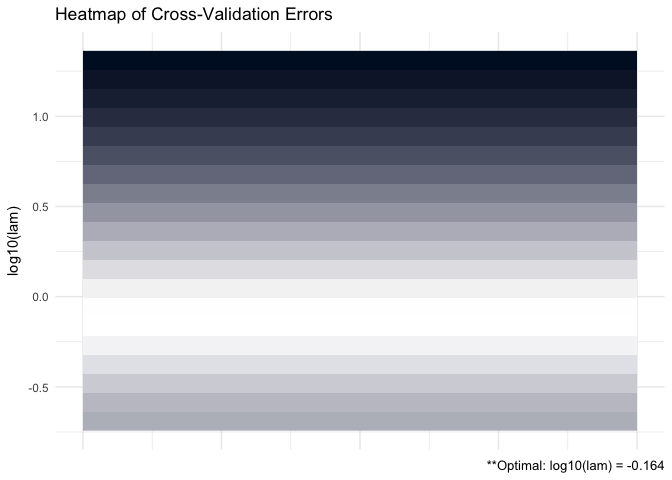
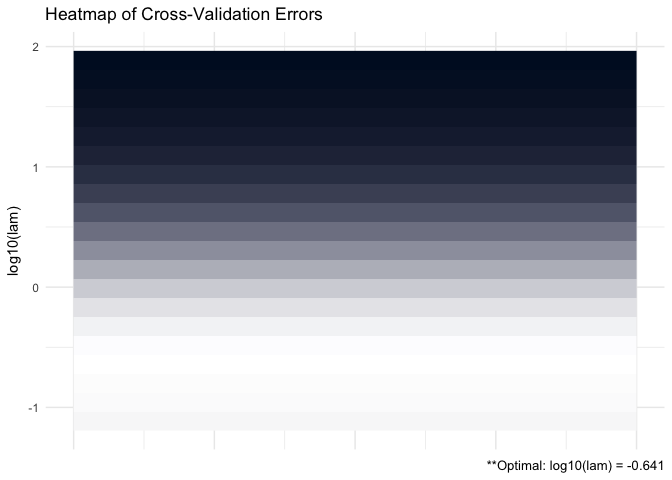
bug fixes, added tutorial

diff --git a/README.md b/README.md
@@ -7,7 +7,7 @@ Status](https://travis-ci.org/MGallow/shrink.svg?branch=master)](https://travis-
 
 ## Overview
 
-`shrink` is an implementation of the methods described in “Shrinking
+`SCPME` is an implementation of the methods described in “Shrinking
 Characteristics of Precision Matrix Estimators”
 [pdf](https://doi.org/10.1093/biomet/asy023). It estimates a penalized
 precision matrix via a modified alternating direction method of
@@ -52,136 +52,139 @@ welcome\!
 library(SCPME)
 set.seed(123)
 
-# let's generate some data!
+# let us generate data for a quick simulation
+# we can use the built-in `data_gen` function
 
-# specify marginal covariance of X
-# note that the inverse is tri-diagonal (sparse)
-Sxx = matrix(0.7, nrow = 5, ncol = 5)
-for (i in 1:5){
-  for (j in 1:5){
-    Sxx[i, j] = Sxx[i, j]^abs(i - j)
-  }
-}
+# generate 100 samples
+data = data_gen(p = 5, n = 100, r = 1)
 
-# now randomly generate some 100 observations of X
-Z = matrix(rnorm(100*5), nrow = 100, ncol = 5)
-out = eigen(Sxx, symmetric = TRUE)
-Sxx.sqrt = out$vectors %*% diag(out$values^0.5) %*% t(out$vectors)
-X = Z %*% Sxx.sqrt
+# default is generated from sparse regression coefficients
+data$betas
+```
 
-# randomly generate regression coefficients
-betas = matrix(rnorm(5, 0, sqrt(1/5)), nrow = 5, ncol = 1)
+    ##             [,1]
+    ## [1,] -0.25065233
+    ## [2,]  0.00000000
+    ## [3,]  0.69707555
+    ## [4,]  0.03153231
+    ## [5,]  0.00000000
 
-# we will also assume a sparse matrix here
-betas = betas*matrix(rbinom(5, 1, prob = 0.5), nrow = 5, ncol = 1)
-
-# now we randomly generate Y
-Y = X %*% betas + rnorm(100)
-
-
-
-# print marginal sample precision matrix for X
-# this is perhaps a bad estimate (not sparse)
-Sample = (nrow(X) - 1)/nrow(X)*cov(X)
-round(qr.solve(Sample), 5)
+``` r
+# and a sparse oracle precision matrix
+round(qr.solve(data$SigmaX), 5)
 ```
 
     ##          [,1]     [,2]     [,3]     [,4]     [,5]
-    ## [1,]  2.32976 -1.55033  0.22105 -0.08607  0.24309
-    ## [2,] -1.55033  3.27561 -1.68026 -0.14277  0.18949
-    ## [3,]  0.22105 -1.68026  3.19897 -1.25158 -0.11016
-    ## [4,] -0.08607 -0.14277 -1.25158  2.76790 -1.37226
-    ## [5,]  0.24309  0.18949 -0.11016 -1.37226  2.05377
+    ## [1,]  1.96078 -1.37255  0.00000  0.00000  0.00000
+    ## [2,] -1.37255  2.92157 -1.37255  0.00000  0.00000
+    ## [3,]  0.00000 -1.37255  2.92157 -1.37255  0.00000
+    ## [4,]  0.00000  0.00000 -1.37255  2.92157 -1.37255
+    ## [5,]  0.00000  0.00000  0.00000 -1.37255  1.96078
+
+``` r
+# now suppose we are interested in estimating the precision
+
+# print marginal sample precision matrix for X
+# this is perhaps a bad estimate (not sparse)
+sample = (nrow(data$X) - 1)/nrow(data$X)*cov(data$X)
+round(qr.solve(sample), 5)
+```
+
+    ##          [,1]     [,2]     [,3]     [,4]     [,5]
+    ## [1,]  2.20420 -1.24670 -0.12435 -0.02156 -0.20889
+    ## [2,] -1.24670  2.39120 -0.90434  0.09653 -0.04804
+    ## [3,] -0.12435 -0.90434  2.61482 -1.62774  0.14684
+    ## [4,] -0.02156  0.09653 -1.62774  3.38677 -1.75151
+    ## [5,] -0.20889 -0.04804  0.14684 -1.75151  2.36464
 
 ``` r
 # estimate preicison matrix (omega) assuming sparsity
-# note that this is simply lasso penalized preicision matrix
-shrink(X, lam = 0.5)
+# note that this is simply a lasso penalized preicision matrix
+shrink(data$X, lam = 0.5, crit.cv = "loglik")
 ```
 
-    ## Matrix Y not detected... will use loglik for crit.cv instead!
-
     ## 
-    ## Call: shrink(X = X, lam = 0.5)
+    ## Call: shrink(X = data$X, lam = 0.5, crit.cv = "loglik")
     ## 
-    ## Iterations: 14
+    ## Iterations: 12
     ## 
     ## Tuning parameters:
     ##       log10(lam)  lam
     ## [1,]      -0.301  0.5
     ## 
-    ## Log-likelihood: -325.34961
+    ## Log-likelihood: -350.78138
     ## 
     ## Omega:
     ##          [,1]     [,2]     [,3]     [,4]     [,5]
-    ## [1,]  0.80258 -0.00363 -0.00002 -0.00003 -0.00001
-    ## [2,] -0.00363  0.74592 -0.03755 -0.00002 -0.00004
-    ## [3,] -0.00002 -0.03755  0.75451 -0.04662  0.00001
-    ## [4,] -0.00003 -0.00002 -0.04662  0.69268 -0.05671
-    ## [5,] -0.00001 -0.00004  0.00001 -0.05671  0.71739
+    ## [1,]  0.72812 -0.07110 -0.00014 -0.00024 -0.00020
+    ## [2,] -0.07110  0.68308 -0.07122 -0.00011 -0.00016
+    ## [3,] -0.00014 -0.07122  0.65016 -0.13351 -0.02023
+    ## [4,] -0.00024 -0.00011 -0.13351  0.67386 -0.13097
+    ## [5,] -0.00020 -0.00016 -0.02023 -0.13097  0.68046
 
 ``` r
 # what if we instead assumed sparsity in beta? (print estimated omega)
 # recall that beta is a product of marginal precision of X and cov(X, Y)
-(shrink = shrink(X, Y, B = cov(X, Y), nlam = 20, lam.max = max(abs(t(X) %*% Y))))
+lam_max = max(abs(t(data$X) %*% data$Y))
+(shrink = shrink(data$X, data$Y, B = cov(data$X, data$Y), nlam = 20, lam.max = lam_max))
 ```
 
     ## 
-    ## Call: shrink(X = X, Y = Y, B = cov(X, Y), nlam = 20, lam.max = max(abs(t(X) %*% 
-    ##     Y)))
+    ## Call: shrink(X = data$X, Y = data$Y, B = cov(data$X, data$Y), nlam = 20, 
+    ##     lam.max = lam_max)
     ## 
-    ## Iterations: 25
+    ## Iterations: 79
     ## 
     ## Tuning parameters:
     ##       log10(lam)    lam
-    ## [1,]      -0.164  0.686
+    ## [1,]      -0.641  0.229
     ## 
-    ## Log-likelihood: -115.58565
+    ## Log-likelihood: -122.00385
     ## 
     ## Omega:
     ##          [,1]     [,2]     [,3]     [,4]     [,5]
-    ## [1,]  1.69602 -1.13833  0.19624  0.30270 -0.02760
-    ## [2,] -1.13833  2.97473 -1.58959 -0.40033  0.30833
-    ## [3,]  0.19624 -1.58959  3.09219 -1.22341 -0.10923
-    ## [4,]  0.30270 -0.40033 -1.22341  2.50158 -1.17438
-    ## [5,] -0.02760  0.30833 -0.10923 -1.17438  1.98885
+    ## [1,]  2.11890 -1.19070 -0.05414  0.00778 -0.20174
+    ## [2,] -1.19070  2.27032 -0.69734  0.02508 -0.01117
+    ## [3,] -0.05414 -0.69734  2.17234 -1.39861 -0.00076
+    ## [4,]  0.00778  0.02508 -1.39861  2.84813 -1.43672
+    ## [5,] -0.20174 -0.01117 -0.00076 -1.43672  2.17420
 
 ``` r
 # print estimated beta
 shrink$Z
 ```
 
-    ##              [,1]
-    ## [1,] -0.228281131
-    ## [2,]  0.076127418
-    ## [3,]  0.003126976
-    ## [4,]  0.162514189
-    ## [5,]  0.000000000
+    ##             [,1]
+    ## [1,] -0.03497027
+    ## [2,]  0.00000000
+    ## [3,]  0.51785553
+    ## [4,]  0.09869005
+    ## [5,]  0.00000000
 
 ``` r
 # we could also assume sparsity in beta AND omega (print estimated omega)
-(shrink2 = shrink(X, Y, B = cbind(cov(X, Y), diag(ncol(X))), nlam = 20, lam.max = 10, lam.min.ratio = 1e-4))
+(shrink2 = shrink(data$X, data$Y, B = cbind(cov(data$X, data$Y), diag(ncol(data$X))), nlam = 20, lam.max = 10, lam.min.ratio = 1e-4))
 ```
 
     ## 
-    ## Call: shrink(X = X, Y = Y, B = cbind(cov(X, Y), diag(ncol(X))), nlam = 20, 
-    ##     lam.max = 10, lam.min.ratio = 1e-04)
+    ## Call: shrink(X = data$X, Y = data$Y, B = cbind(cov(data$X, data$Y), 
+    ##     diag(ncol(data$X))), nlam = 20, lam.max = 10, lam.min.ratio = 1e-04)
     ## 
-    ## Iterations: 29
+    ## Iterations: 61
     ## 
     ## Tuning parameters:
     ##       log10(lam)    lam
     ## [1,]      -1.105  0.078
     ## 
-    ## Log-likelihood: -171.52139
+    ## Log-likelihood: -188.60058
     ## 
     ## Omega:
     ##          [,1]     [,2]     [,3]     [,4]     [,5]
-    ## [1,]  1.54834 -0.70518  0.00008  0.00002  0.01828
-    ## [2,] -0.70518  1.84090 -0.76744 -0.08973 -0.00006
-    ## [3,]  0.00008 -0.76744  1.90009 -0.69543 -0.02743
-    ## [4,]  0.00002 -0.08973 -0.69543  1.70299 -0.72951
-    ## [5,]  0.01828 -0.00006 -0.02743 -0.72951  1.42057
+    ## [1,]  1.54822 -0.69209 -0.11001 -0.03356 -0.10665
+    ## [2,] -0.69209  1.59404 -0.47751 -0.03653 -0.03124
+    ## [3,] -0.11001 -0.47751  1.61213 -0.80601 -0.09970
+    ## [4,] -0.03356 -0.03653 -0.80601  1.91246 -0.87712
+    ## [5,] -0.10665 -0.03124 -0.09970 -0.87712  1.55736
 
 ``` r
 # print estimated beta
@@ -189,11 +192,11 @@ shrink2$Z[,1, drop = FALSE]
 ```
 
     ##             [,1]
-    ## [1,] -0.26572905
-    ## [2,]  0.08308531
-    ## [3,]  0.04632600
-    ## [4,]  0.17530014
-    ## [5,]  0.01228189
+    ## [1,] -0.02249550
+    ## [2,]  0.00000000
+    ## [3,]  0.48346853
+    ## [4,]  0.17778566
+    ## [5,]  0.02068491
 
 ``` r
 # produce CV heat map for shrink
